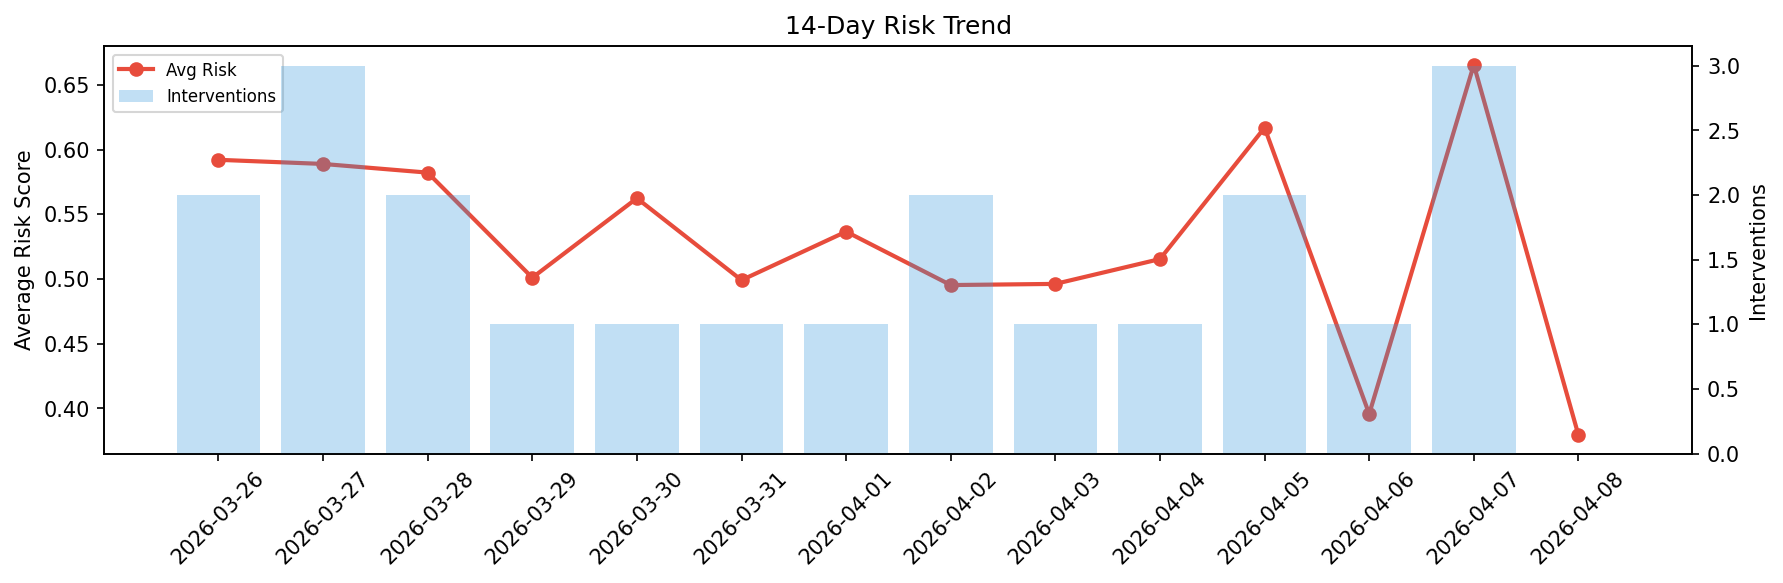
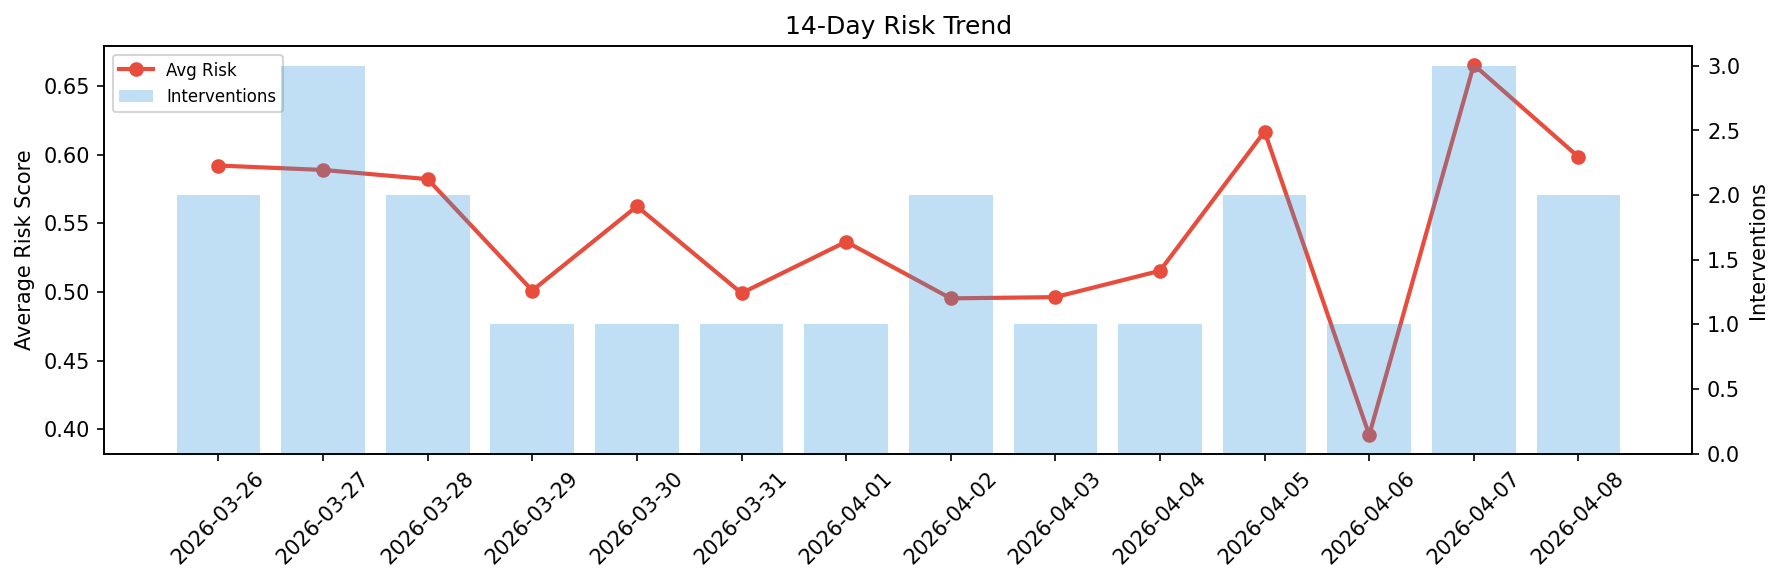
agent-improvement: daily cycle 2026-04-08T21:01

diff --git a/logs/2026-04-08.md b/logs/2026-04-08.md
@@ -1,6 +1,6 @@
 # Agent Improvement Report — 2026-04-08
 
-**Cycle ID:** `67bc8c97` | **Avg Risk:** 0.3794 | **Interventions:** 0/4
+**Cycle ID:** `1a426311` | **Avg Risk:** 0.5984 | **Interventions:** 2/4
 
 ![Dashboard](2026-04-08_dashboard.png)
 
@@ -10,18 +10,18 @@
 
 | Domain | Risk Score | Decision | Alerts |
 |--------|-----------|----------|--------|
-| code_review | 0.522 | monitor | duplication |
-| incident_response | 0.2328 | monitor | none |
-| data_pipeline | 0.4254 | monitor | volume_anomaly |
-| deployment | 0.3375 | monitor | none |
+| code_review | 0.5131 | monitor | complexity |
+| incident_response | 0.7135 | intervene | severity |
+| data_pipeline | 0.776 | intervene | schema_drift, volume_anomaly |
+| deployment | 0.3908 | monitor | none |
 
 ## Delta vs Yesterday
 
 | Domain | Today | Yesterday | Change |
 |--------|-------|-----------|--------|
-| code_review | 0.522 | 0.5317 | 📉 -1.8% |
-| incident_response | 0.2328 | 0.6645 | 📉 -65.0% |
-| data_pipeline | 0.4254 | 0.8096 | 📉 -47.5% |
-| deployment | 0.3375 | 0.6563 | 📉 -48.6% |
+| code_review | 0.5131 | 0.5317 | 📉 -3.5% |
+| incident_response | 0.7135 | 0.6645 | 📈 7.4% |
+| data_pipeline | 0.776 | 0.8096 | 📉 -4.2% |
+| deployment | 0.3908 | 0.6563 | 📉 -40.5% |
 
 **Refinement:** `{'adjustment': 'maintain', 'trend': 'improving', 'window': 4}`
